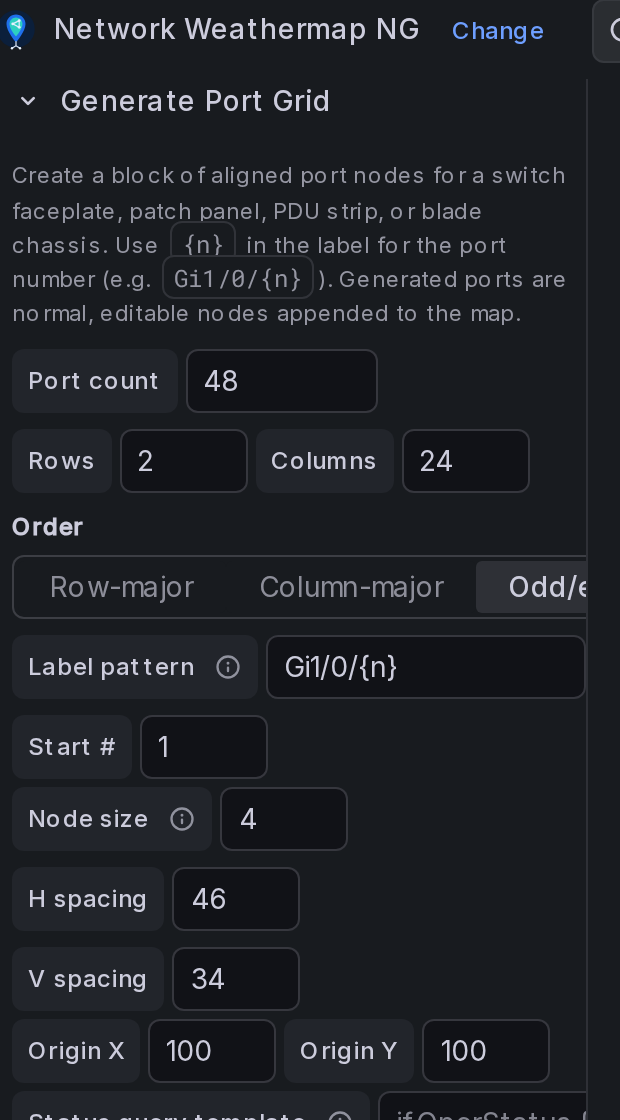
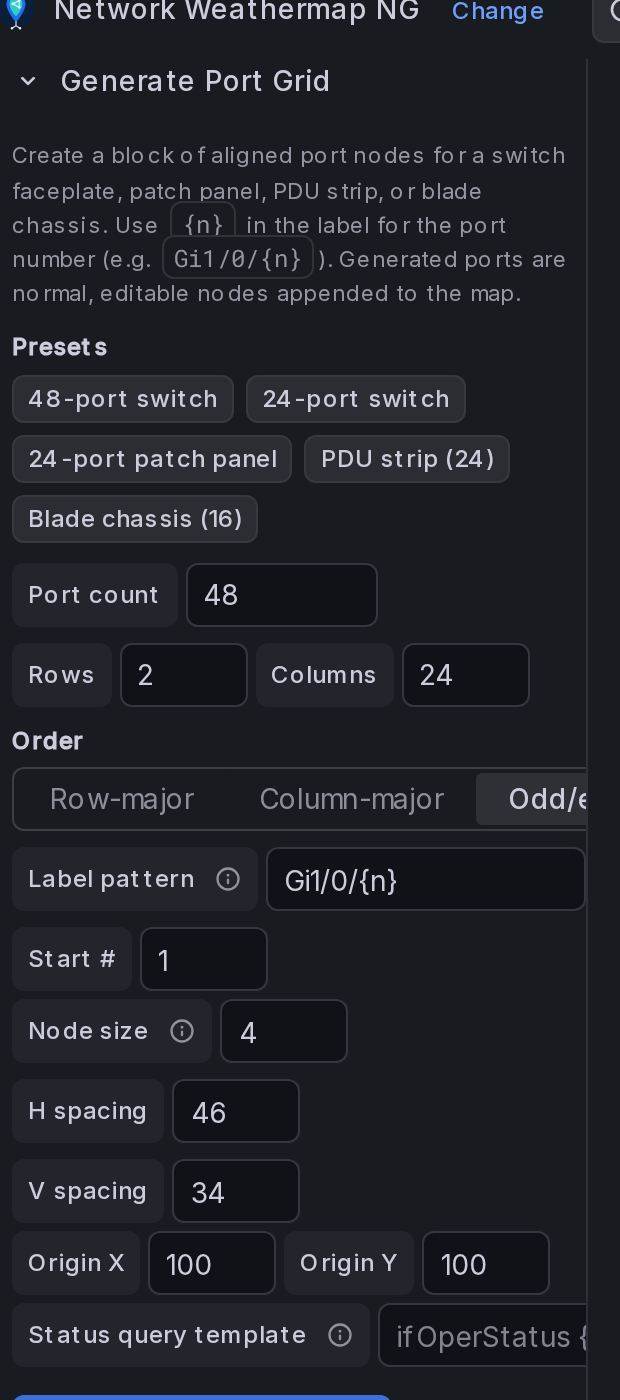
feat(nodes): one-click presets for the port grid generator (#267)
Add device presets (48-/24-port switch, 24-port patch panel, PDU strip,
blade chassis) as pure parameter bundles — no device-specific generation
code. A preset fills the form's shape fields and leaves the origin where
the user set it. Unit tests assert every preset produces a valid grid and
that the patch-panel/PDU presets lay out as a single row/column; a form
test drives a preset through to generation. Docs + screenshot updated.

diff --git a/src/gridGenerator.ts b/src/gridGenerator.ts
@@ -61,6 +61,104 @@ function cellFor(i: number, rows: number, cols: number, ordering: PortGridOrderi
   }
 }
 
+// The tunable fields the editor form holds. Presets fill a subset of these;
+// origin is intentionally left to the user so a preset lands where they want.
+export interface PortGridFormValues {
+  count: number;
+  rows: number;
+  cols: number;
+  ordering: PortGridOrdering;
+  labelPattern: string;
+  startNumber: number;
+  nodeSize: number;
+  hSpacing: number;
+  vSpacing: number;
+  originX: number;
+  originY: number;
+  statusQueryTemplate: string;
+}
+
+// One-click starting points for common rack devices. These are *only* parameter
+// bundles — no device-specific generation code — so the generic generator stays
+// the single source of truth. Users tweak the fields after applying one.
+export const PORT_GRID_PRESETS: Array<{ label: string; values: Partial<PortGridFormValues> }> = [
+  {
+    // Real 48-port switch: ports 1..48 numbered sequentially, odd on the top
+    // row and even directly below, columns advancing every pair.
+    label: '48-port switch',
+    values: {
+      count: 48,
+      rows: 2,
+      cols: 24,
+      ordering: 'odd-even',
+      labelPattern: 'Gi1/0/{n}',
+      startNumber: 1,
+      nodeSize: 4,
+      hSpacing: 46,
+      vSpacing: 34,
+    },
+  },
+  {
+    label: '24-port switch',
+    values: {
+      count: 24,
+      rows: 2,
+      cols: 12,
+      ordering: 'odd-even',
+      labelPattern: 'Gi1/0/{n}',
+      startNumber: 1,
+      nodeSize: 4,
+      hSpacing: 46,
+      vSpacing: 34,
+    },
+  },
+  {
+    // Patch panel: a single sequential row of jacks, left to right.
+    label: '24-port patch panel',
+    values: {
+      count: 24,
+      rows: 1,
+      cols: 24,
+      ordering: 'row-major',
+      labelPattern: 'P{n}',
+      startNumber: 1,
+      nodeSize: 4,
+      hSpacing: 40,
+      vSpacing: 40,
+    },
+  },
+  {
+    // Vertical PDU strip: one column of outlets, top to bottom.
+    label: 'PDU strip (24)',
+    values: {
+      count: 24,
+      rows: 24,
+      cols: 1,
+      ordering: 'column-major',
+      labelPattern: 'Outlet {n}',
+      startNumber: 1,
+      nodeSize: 4,
+      hSpacing: 40,
+      vSpacing: 26,
+    },
+  },
+  {
+    // Blade chassis: a true 2-D grid of bays.
+    label: 'Blade chassis (16)',
+    values: {
+      count: 16,
+      rows: 2,
+      cols: 8,
+      ordering: 'row-major',
+      labelPattern: 'Blade {n}',
+      startNumber: 1,
+      nodeSize: 8,
+      hSpacing: 62,
+      vSpacing: 60,
+    },
+  },
+];
+
 export function generatePortGrid(opts: PortGridOptions, theme: GrafanaTheme2): Node[] {
   const ordering: PortGridOrdering = opts.ordering ?? 'row-major';
   const start = opts.startNumber ?? 1;

diff --git a/src/forms/NodeForm.tsx b/src/forms/NodeForm.tsx
@@ -34,7 +34,7 @@ import {
   CloudIcons,
 } from './iconOptions';
 import { finiteOrFallback, getDataFrameName, sanitizeUrl } from 'utils';
-import { generatePortGrid, PortGridOrdering } from 'gridGenerator';
+import { generatePortGrid, PortGridOrdering, PortGridFormValues, PORT_GRID_PRESETS } from 'gridGenerator';
 
 interface Settings {
   placeholder: string;
@@ -277,7 +277,7 @@ export const NodeForm = ({ value, onChange, context }: Props) => {
 
   // Port-grid generator (#267): local form state + a single append action. The
   // generation logic itself lives in the pure generatePortGrid helper.
-  const [grid, setGrid] = useState({
+  const [grid, setGrid] = useState<PortGridFormValues>({
     count: 48,
     rows: 2,
     cols: 24,
@@ -292,7 +292,13 @@ export const NodeForm = ({ value, onChange, context }: Props) => {
     statusQueryTemplate: '',
   });
   const [gridError, setGridError] = useState<string | null>(null);
-  const setGridField = (patch: Partial<typeof grid>) => setGrid((g) => ({ ...g, ...patch }));
+  const setGridField = (patch: Partial<PortGridFormValues>) => setGrid((g) => ({ ...g, ...patch }));
+  // Applying a preset fills the device-shape fields but leaves the origin where
+  // the user set it, so the block lands where they want it.
+  const applyPreset = (values: Partial<PortGridFormValues>) => {
+    setGrid((g) => ({ ...g, ...values }));
+    setGridError(null);
+  };
 
   const handleGeneratePortGrid = () => {
     try {
@@ -919,6 +925,19 @@ export const NodeForm = ({ value, onChange, context }: Props) => {
             <code>{'{n}'}</code> in the label for the port number (e.g. <code>Gi1/0/{'{n}'}</code>). Generated ports are
             normal, editable nodes appended to the map.
           </p>
+          <p style={{ margin: '0 0 4px', fontSize: '12px', fontWeight: 600 }}>Presets</p>
+          <div style={{ display: 'flex', flexWrap: 'wrap', gap: '6px', marginBottom: '10px' }}>
+            {PORT_GRID_PRESETS.map((preset) => (
+              <Button
+                key={preset.label}
+                variant="secondary"
+                size="sm"
+                onClick={() => applyPreset(preset.values)}
+              >
+                {preset.label}
+              </Button>
+            ))}
+          </div>
           <InlineFieldRow>
             <InlineField label="Port count">
               <Input

diff --git a/src/gridGenerator.test.ts b/src/gridGenerator.test.ts
@@ -1,4 +1,4 @@
-import { generatePortGrid, PortGridOptions } from 'gridGenerator';
+import { generatePortGrid, PortGridOptions, PORT_GRID_PRESETS } from 'gridGenerator';
 import { theme } from 'testData';
 
 const base: PortGridOptions = {
@@ -73,6 +73,35 @@ test('snaps positions to the grid when a grid size is given', () => {
 test('sets node padding from nodeSize when provided', () => {
   const nodes = generatePortGrid({ ...base, count: 1, nodeSize: 12 }, theme);
   expect(nodes[0].padding).toEqual({ horizontal: 12, vertical: 12 });
+});
+
+describe('presets', () => {
+  test('every preset produces a valid grid of its stated count', () => {
+    for (const preset of PORT_GRID_PRESETS) {
+      const opts = { ...base, ...preset.values, originX: 0, originY: 0 } as PortGridOptions;
+      const nodes = generatePortGrid(opts, theme);
+      expect(nodes).toHaveLength(preset.values.count!);
+      // Every generated node is a plain, uniquely-identified node.
+      expect(new Set(nodes.map((n) => n.id)).size).toBe(nodes.length);
+      expect(nodes.every((n) => n.isConnection === false)).toBe(true);
+    }
+  });
+
+  test('the patch-panel preset is a single sequential row', () => {
+    const preset = PORT_GRID_PRESETS.find((p) => p.label.includes('patch panel'))!;
+    const nodes = generatePortGrid({ ...base, ...preset.values, originX: 0, originY: 0 } as PortGridOptions, theme);
+    const ys = new Set(nodes.map((n) => n.position[1]));
+    expect(ys.size).toBe(1); // one row
+    expect(nodes[0].label).toBe('P1');
+  });
+
+  test('the PDU preset is a single vertical column', () => {
+    const preset = PORT_GRID_PRESETS.find((p) => p.label.startsWith('PDU'))!;
+    const nodes = generatePortGrid({ ...base, ...preset.values, originX: 0, originY: 0 } as PortGridOptions, theme);
+    const xs = new Set(nodes.map((n) => n.position[0]));
+    expect(xs.size).toBe(1); // one column
+    expect(nodes[0].label).toBe('Outlet 1');
+  });
 });
 
 describe('invalid input', () => {

diff --git a/src/forms/NodeForm.test.tsx b/src/forms/NodeForm.test.tsx
@@ -225,6 +225,22 @@ test('Generate Port Grid appends editable port nodes (#267)', () => {
   expect(initial).toEqual(before);
 });
 
+test('a port-grid preset fills the form and generates its layout (#267)', () => {
+  const spy = jest.fn();
+  const initial = getData(theme);
+  render(<Harness initial={initial} onChangeSpy={spy} />);
+
+  fireEvent.click(screen.getByText('Generate Port Grid'));
+  // Apply the patch-panel preset, then generate.
+  fireEvent.click(screen.getByText('24-port patch panel'));
+  fireEvent.click(screen.getByText(/Generate \d+ Ports/));
+
+  const updated = spy.mock.calls[spy.mock.calls.length - 1][0];
+  expect(updated.nodes).toHaveLength(initial.nodes.length + 24);
+  const labels = updated.nodes.map((n: { label?: string }) => n.label);
+  expect(labels).toEqual(expect.arrayContaining(['P1', 'P24']));
+});
+
 test('invalid port-grid input surfaces an error and adds nothing (#267)', () => {
   const spy = jest.fn();
   const initial = getData(theme);

diff --git a/CHANGELOG.md b/CHANGELOG.md
@@ -6,7 +6,7 @@ All notable changes to this project will be documented in this file. See [standa
 
 ### Features
 
-* **port grid generator**: a **Generate Port Grid** action in the node editor creates a whole block of aligned port nodes in one step — for switch faceplates, patch panels, PDU strips, or blade chassis. Configure count, rows/columns, fill order (row-major / column-major / **odd-even faceplate**), a `{n}` label pattern, start number, node size, spacing, and origin; an optional status-query template (`{n}` / `{label}`) binds a query to every port at once. Generated ports are plain, editable nodes appended in a single undo step, and snap to the panel grid when snapping is on ([#267](https://github.com/allamiro/grafana-network-weathermap-ng/issues/267))
+* **port grid generator**: a **Generate Port Grid** action in the node editor creates a whole block of aligned port nodes in one step — for switch faceplates, patch panels, PDU strips, or blade chassis. One-click **presets** (48-/24-port switch, 24-port patch panel, PDU strip, blade chassis) fill the form, then adjust count, rows/columns, fill order (row-major / column-major / **odd-even faceplate**), a `{n}` label pattern, start number, node size, spacing, and origin; an optional status-query template (`{n}` / `{label}`) binds a query to every port at once. Generated ports are plain, editable nodes appended in a single undo step, and snap to the panel grid when snapping is on ([#267](https://github.com/allamiro/grafana-network-weathermap-ng/issues/267))
 
 ## [1.6.4](https://github.com/allamiro/grafana-network-weathermap-ng/releases/tag/v1.6.4) (2026-07-21)
 

diff --git a/website/docs/guide/nodes.md b/website/docs/guide/nodes.md
@@ -22,6 +22,8 @@ Open **Panel options → Nodes** to manage nodes. Select a node from the dropdow
 
 Building a switch faceplate, patch panel, PDU strip, or blade chassis by hand means placing dozens of small nodes one at a time. **Generate Port Grid** (in the **Nodes** section, next to **Add Node**) creates a whole block of aligned port nodes in one action.
 
+Start from a **preset** (one click fills the form for a common device — *48-port switch*, *24-port switch*, *24-port patch panel*, *PDU strip*, *blade chassis*), then adjust any field. Presets are just starting parameters — the generator itself is device-agnostic.
+
 Open the **Generate Port Grid** panel and set:
 
 | Field | Purpose |
